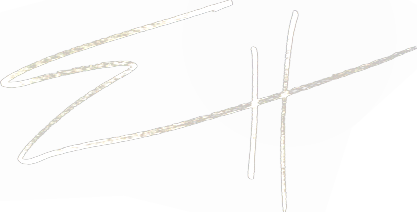
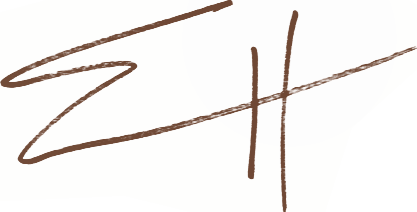
more styling

Changed region(s): [[0.0312, 0.0566, 1.0, 1.0], [0.0, 0.0, 0.5612, 0.4245], [0.0624, 0.3679, 0.2806, 0.7075]]

diff --git a/erichamlin/src/index.css b/erichamlin/src/index.css
@@ -1,7 +1,7 @@
 @import url('https://fonts.googleapis.com/css?family=Cormorant&display=swap');
 
 body {
-  background-color: #040a19;
+  background-color: #101629;
   margin: 0;
   padding: 0;
   color: #fff;
@@ -32,10 +32,10 @@ a {
     width: 800px;
     height: 300px;
     position: fixed;
-    font-size: 40px;
+    font-size: 50px;
     color: #feffc1;
     text-align: center;
-    background-color: #040a19;
+    background-color: #101629;
     z-index: 10;
 }
 
@@ -48,12 +48,18 @@ a {
     margin-top: 10px;
 }
 
-#header div#name {
-    margin-top: -50px;
+#signature {
+    background-image: url("http://localhost:4000/images/site/signature.png");
+    width: 417px;
+    height: 212px;
 }
 
-#main-menu {
-    margin-top: 10px;
+#header div#name {
+    margin-top: -120px;
+}
+
+#header div#main-menu {
+    margin-top: 80px;
     width: 100%;
     border-top: 1px solid #fff;
     border-bottom: 1px solid #fff;
@@ -61,7 +67,7 @@ a {
 }
 
 #main-menu a {
-    margin-right: 10px;
+    margin-right: 15px;
 }
 
 #side-menu {
@@ -98,15 +104,31 @@ a {
     margin-bottom: 10px;
 }
 
-img.thumbnail {
+.thumbnail {
     display: inline-block;
-    margin-right: 10px;
+    position: relative;
+    top: 0px;
+    margin: 0 10px 0 0;
     width: 190px;
     height: 190px;
+    background-color: #f00;
+    background-blend-mode: screen;
 }
 
-img.thumbnail:nth-child(3),
-img.thumbnail:nth-child(6) {
+.thumbnail img {
+    position: absolute;
+    z-index: 2;
+    left: 0px;
+    top: 0px;
+}
+
+.thumbnail img:hover {
+    mix-blend-mode: multiply;
+    opacity: 0.7;
+}
+
+.thumbnail:nth-child(4),
+.thumbnail:nth-child(7) {
     margin-right: 0px;
 }
 

diff --git a/erichamlin/src/components/App.js b/erichamlin/src/components/App.js
@@ -6,6 +6,7 @@ import MainMenu from './MainMenu.js';
 import MainBody from './MainBody.js';
 
 
+// ><img src="http://localhost:4000/images/site/signature.png" /></div>
 
 export default class App extends Component  {
 
@@ -14,7 +15,7 @@ export default class App extends Component  {
       <Provider store={store}>
         <div className="App">
             <div id='header'>
-            <div id="signature"><img src="http://localhost:4000/images/site/signature.png" /></div>
+            <div id="signature"/>
             <div id="name">Eric Hamlin</div>
             <MainMenu/>
           </div>

diff --git a/erichamlin/src/components/MenuButton.js b/erichamlin/src/components/MenuButton.js
@@ -3,8 +3,9 @@ import {switchPageActionWithDispatch} from '../actions.js';
 
 export default class MenuButton extends Component {
   render() {
+    let selection = this.props.selection;
     return (
-      <a onClick={() => switchPageActionWithDispatch(this.props.selection)}>{this.props.selection}</a>
+      <a onClick={() => switchPageActionWithDispatch(selection)}>{selection.charAt(0).toUpperCase() + selection.substring(1)}</a>
     )
   }
 }

diff --git a/erichamlin/src/components/ContentSection.js b/erichamlin/src/components/ContentSection.js
@@ -5,7 +5,7 @@ import Divider from './Divider.js';
 function ContentSection(props) {
   let content = [];
   for (let i in props.pieces) {
-    content.push(<Thumbnail src={props.pieces[i].thumbnail.url}/>);
+    content.push(<Thumbnail title={props.pieces[i].title} src={props.pieces[i].thumbnail.url}/>);
   }
 
   return (

diff --git a/erichamlin/src/components/Thumbnail.js b/erichamlin/src/components/Thumbnail.js
@@ -2,7 +2,7 @@ import React, { Component } from 'react';
 
 function Thumbnail(props) {
   return (
-      <img src={props.src} class='thumbnail'/>
+      <div class='thumbnail'><img src={props.src}/>{props.title}</div>
   );
 }
 
